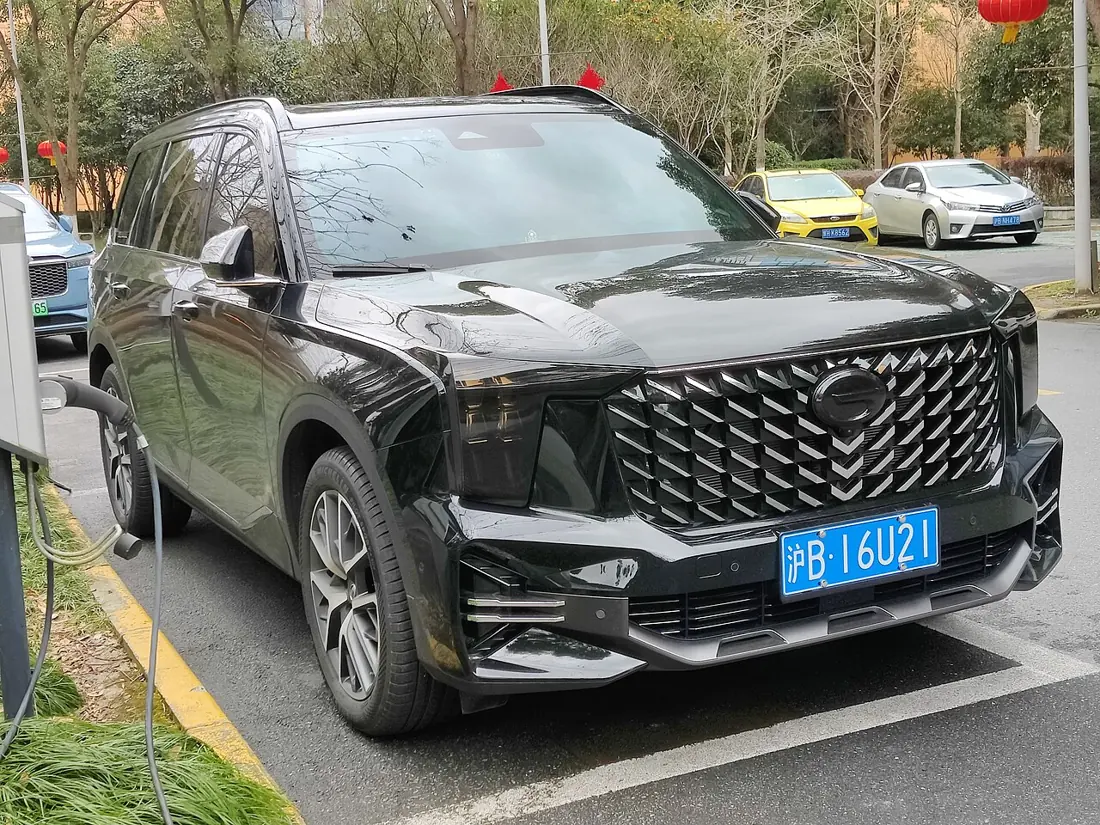
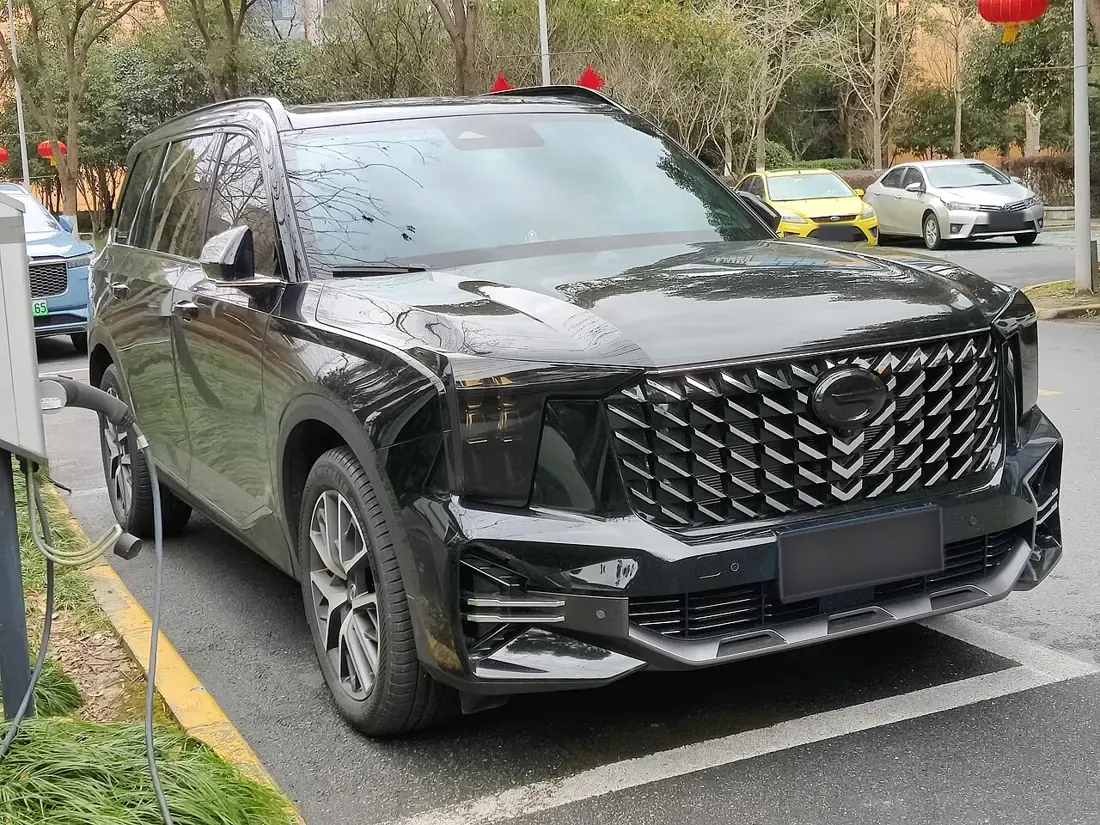
Solaris и Rio — фото на российских номерах; китайские номера GAC закрыты плашкой

Changed region(s): [[0.7109, 0.6061, 0.8655, 0.7273], [0.8964, 0.2424, 0.9273, 0.303], [0.7418, 0.2727, 0.7727, 0.303]]

diff --git a/credits.html b/credits.html
@@ -19,17 +19,17 @@
 <body>
 <main>
   <h1>Авторы фотографий</h1>
-  <p>Фото автомобилей — фотографии этих моделей со свободными лицензиями с Wikimedia Commons (по одной машине на модель). Solaris и Rio показаны на фото их китайских версий — Hyundai Verna и Kia K2, это те же автомобили.</p>
+  <p>Фото автомобилей — фотографии этих моделей со свободными лицензиями с Wikimedia Commons. Иностранные номера на некоторых фото закрыты.</p>
   <ul>
     <li><b>granta-1</b> — <a href="https://commons.wikimedia.org/wiki/File:2021_Lada_Granta_sedan_silver_front.jpg" target="_blank" rel="noopener">2021 Lada Granta sedan silver front.jpg</a>, автор: Throwawayacc222, лицензия CC0</li>
     <li><b>granta-2</b> — <a href="https://commons.wikimedia.org/wiki/File:2021_Lada_Granta_sedan_silver_rear.jpg" target="_blank" rel="noopener">2021 Lada Granta sedan silver rear.jpg</a>, автор: Throwawayacc222, лицензия CC0</li>
     <li><b>polo-1</b> — <a href="https://commons.wikimedia.org/wiki/File:2015_VW_Polo_Sedan_(1).jpg" target="_blank" rel="noopener">2015 VW Polo Sedan (1).jpg</a>, автор: Nick.Pr, лицензия CC BY-SA 4.0</li>
     <li><b>polo-2</b> — <a href="https://commons.wikimedia.org/wiki/File:2015_VW_Polo_Sedan.jpg" target="_blank" rel="noopener">2015 VW Polo Sedan.jpg</a>, автор: Nick.Pr, лицензия CC BY-SA 4.0</li>
     <li><b>polo-3</b> — <a href="https://commons.wikimedia.org/wiki/File:2015_VW_Polo_Sedan_(4).jpg" target="_blank" rel="noopener">2015 VW Polo Sedan (4).jpg</a>, автор: Nick.Pr, лицензия CC BY-SA 4.0</li>
-    <li><b>solaris-1</b> — <a href="https://commons.wikimedia.org/wiki/File:2017_Beijing-Hyundai_Verna,_front_8.7.18.jpg" target="_blank" rel="noopener">2017 Beijing-Hyundai Verna, front 8.7.18.jpg</a>, автор: Kevauto, лицензия CC BY-SA 4.0</li>
-    <li><b>solaris-2</b> — <a href="https://commons.wikimedia.org/wiki/File:2017_Beijing-Hyundai_Verna,_rear_8.4.18.jpg" target="_blank" rel="noopener">2017 Beijing-Hyundai Verna, rear 8.4.18.jpg</a>, автор: Kevauto, лицензия CC BY-SA 4.0</li>
-    <li><b>rio-1</b> — <a href="https://commons.wikimedia.org/wiki/File:White_2017_Dongfeng_Yueda_Kia_K2_(UC)_GLS_1.4_China_2025-10-25_001.jpg" target="_blank" rel="noopener">White 2017 Dongfeng Yueda Kia K2 (UC) GLS 1.4 China 2025-10-25 001.jpg</a>, автор: Avante2025, лицензия CC BY 4.0</li>
-    <li><b>rio-2</b> — <a href="https://commons.wikimedia.org/wiki/File:White_2017_Dongfeng_Yueda_Kia_K2_(UC)_GLS_1.4_China_002.jpg" target="_blank" rel="noopener">White 2017 Dongfeng Yueda Kia K2 (UC) GLS 1.4 China 002.jpg</a>, автор: Avante2025, лицензия CC BY 4.0</li>
+    <li><b>solaris-1</b> — <a href="https://commons.wikimedia.org/wiki/File:Hyundai_Solaris_(HCR)_en_Tjumeno.jpg" target="_blank" rel="noopener">Hyundai Solaris (HCR) en Tjumeno.jpg</a>, автор: RG72, лицензия CC BY-SA 4.0</li>
+    <li><b>solaris-2</b> — <a href="https://commons.wikimedia.org/wiki/File:Hyundai_Solaris_-_Efremov,_Russia.jpg" target="_blank" rel="noopener">Hyundai Solaris - Efremov, Russia.jpg</a>, автор: Юрий Д.К., лицензия CC BY 4.0</li>
+    <li><b>rio-1</b> — <a href="https://commons.wikimedia.org/wiki/File:Moscow,_Kia_Rio_white,_June_2026_01.jpg" target="_blank" rel="noopener">Moscow, Kia Rio white, June 2026 01.jpg</a>, автор: Retired electrician, лицензия CC0</li>
+    <li><b>rio-2</b> — <a href="https://commons.wikimedia.org/wiki/File:Moscow,_Kia_Rio_white,_Sept_2025_01.jpg" target="_blank" rel="noopener">Moscow, Kia Rio white, Sept 2025 01.jpg</a>, автор: Retired electrician, лицензия CC0</li>
     <li><b>elantra-1</b> — <a href="https://commons.wikimedia.org/wiki/File:2021_Hyundai_Elantra_1.6_Premium_black_front_view_in_Brunei.jpg" target="_blank" rel="noopener">2021 Hyundai Elantra 1.6 Premium black front view in Brunei.jpg</a>, автор: AIMHO&#x27;S REBELLION 8490s, лицензия CC BY-SA 4.0</li>
     <li><b>elantra-2</b> — <a href="https://commons.wikimedia.org/wiki/File:2021_Hyundai_Elantra_1.6_Premium_black_rear_view_in_Brunei.jpg" target="_blank" rel="noopener">2021 Hyundai Elantra 1.6 Premium black rear view in Brunei.jpg</a>, автор: AIMHO&#x27;S REBELLION 8490s, лицензия CC BY-SA 4.0</li>
     <li><b>elantra-3</b> — <a href="https://commons.wikimedia.org/wiki/File:2021_Hyundai_Elantra_1.6_Premium_black_interior_view_in_Brunei.jpg" target="_blank" rel="noopener">2021 Hyundai Elantra 1.6 Premium black interior view in Brunei.jpg</a>, автор: AIMHO&#x27;S REBELLION 8490s, лицензия CC BY-SA 4.0</li>
